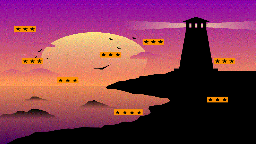
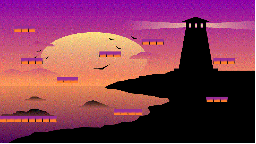
level updates and previews

Changed region(s): [[0.0, 0.0, 1.0, 1.0], [0.7812, 0.6667, 0.9062, 0.7222]]

diff --git a/layers.js b/layers.js
@@ -131,19 +131,19 @@ function drawLevelPreviewImages(context) {
     img5.onload = function () {
     context.drawImage(img5, 83 + 256 + 30, 144 + 288); //position the level preview image
     }
-    img5.src = "./LevelPreviews/FutureTownPreview.JPG";
+    img5.src = "./LevelPreviews/BlueNightPreview.PNG";
 
     var img6 = new Image();
     img6.onload = function () {
     context.drawImage(img6, 83 + 512 + 60, 144 + 288); //position the level preview image
     }
-    img6.src = "./LevelPreviews/FutureCityPreview.JPG";
+    img6.src = "./LevelPreviews/OceanPreview.PNG";
 
     var img7 = new Image();
     img7.onload = function () {
     context.drawImage(img7, 83 + 768 + 90, 144 + 288); //position the level preview image
     }
-    img7.src = "./LevelPreviews/WaterfallPreview.PNG";
+    img7.src = "./LevelPreviews/DojoPreview.PNG";
 
 
     //add more images for previews

diff --git a/Level.js b/Level.js
@@ -6,7 +6,7 @@ class Level {
         this.entities = new Set();
         this.tiles = new Matrix();
         this.itemCounter = 0;
-        this.itemSpawnRate = 5; //number of seconds between item spawns, should be around 15 or 20
+        this.itemSpawnRate = 15; //number of seconds between item spawns, should be around 15 or 20
 
         this.tileCollider = new TileCollider(this.tiles);
         this.entityCollider = new EntityCollider(this.entities);   //added

diff --git a/sprites.js b/sprites.js
@@ -33,7 +33,7 @@ function loadBackgroundSprites(name) {
           return sprites;
         } else if (name === 'Ocean') {
           const sprites = new SpriteSheet(image, 32, 32);
-          sprites.defineTile('ground', 1, 0);
+          sprites.defineTile('ground', 0, 2);
           sprites.defineTile('platform', 1, 0);
           return sprites;
         } else if (name === 'Dojo') {
